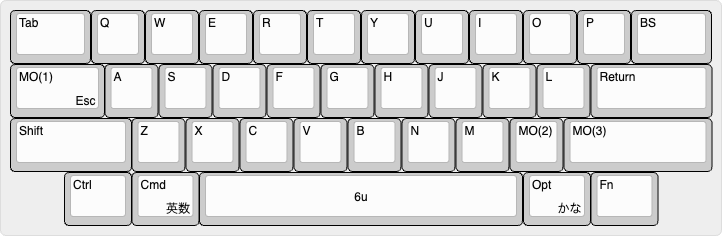
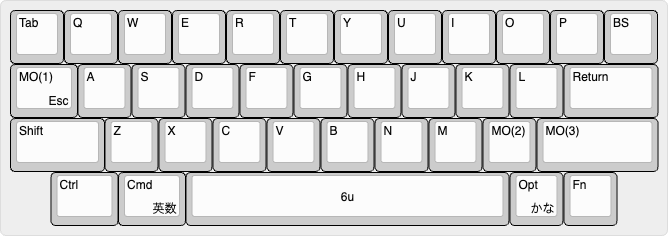
Change layout to slightly

diff --git a/README.md b/README.md
@@ -6,7 +6,7 @@ A 38-key (3-octave + 1) keyboard.
 
 **Layer 0**:
 
-📄 [keyboard-layout.png](layout/keyboard-layout.png) (v0.1.0)
+📄 [keyboard-layout.png](layout/keyboard-layout.png) (v0.2.0)
 
 ![keyboard layout](layout/keyboard-layout.png)
 
@@ -17,10 +17,10 @@ MEMO: When pressed individually and released, it becomes the lower right keys (E
 📄 [keyboard-layout.rawdata.json](layout/keyboard-layout.rawdata.json)
 
 ```json
-[{"w":1.5},"Tab","Q","W","E","R","T","Y","U","I","O","P",{"w":1.5},"BS"],
-[{"w":1.75},"MO(1)\n\n\nEsc","A","S","D","F","G","H","J","K","L",{"w":2.25},"Return"],
-[{"w":2.25},"Shift","Z","X","C","V","B","N","M","MO(2)",{"w":2.75},"MO(3)"],
-[{"x":1,"w":1.25},"Ctrl",{"w":1.25},"Cmd\n\n\n英数",{"a":7,"w":6},"6u",{"a":4,"w":1.25},"Opt\n\n\nかな",{"w":1.25},"Fn"]
+["Tab","Q","W","E","R","T","Y","U","I","O","P","BS"],
+[{"w":1.25},"MO(1)\n\n\nEsc","A","S","D","F","G","H","J","K","L",{"w":1.75},"Return"],
+[{"w":1.75},"Shift","Z","X","C","V","B","N","M","MO(2)",{"w":2.25},"MO(3)"],
+[{"x":0.75,"w":1.25},"Ctrl",{"w":1.25},"Cmd\n\n\n英数",{"a":7,"w":6},"6u",{"a":4},"Opt\n\n\nかな","Fn"]
 ```
 
 - 🔗 [Keyboard Layout Editor](http://www.keyboard-layout-editor.com/)
